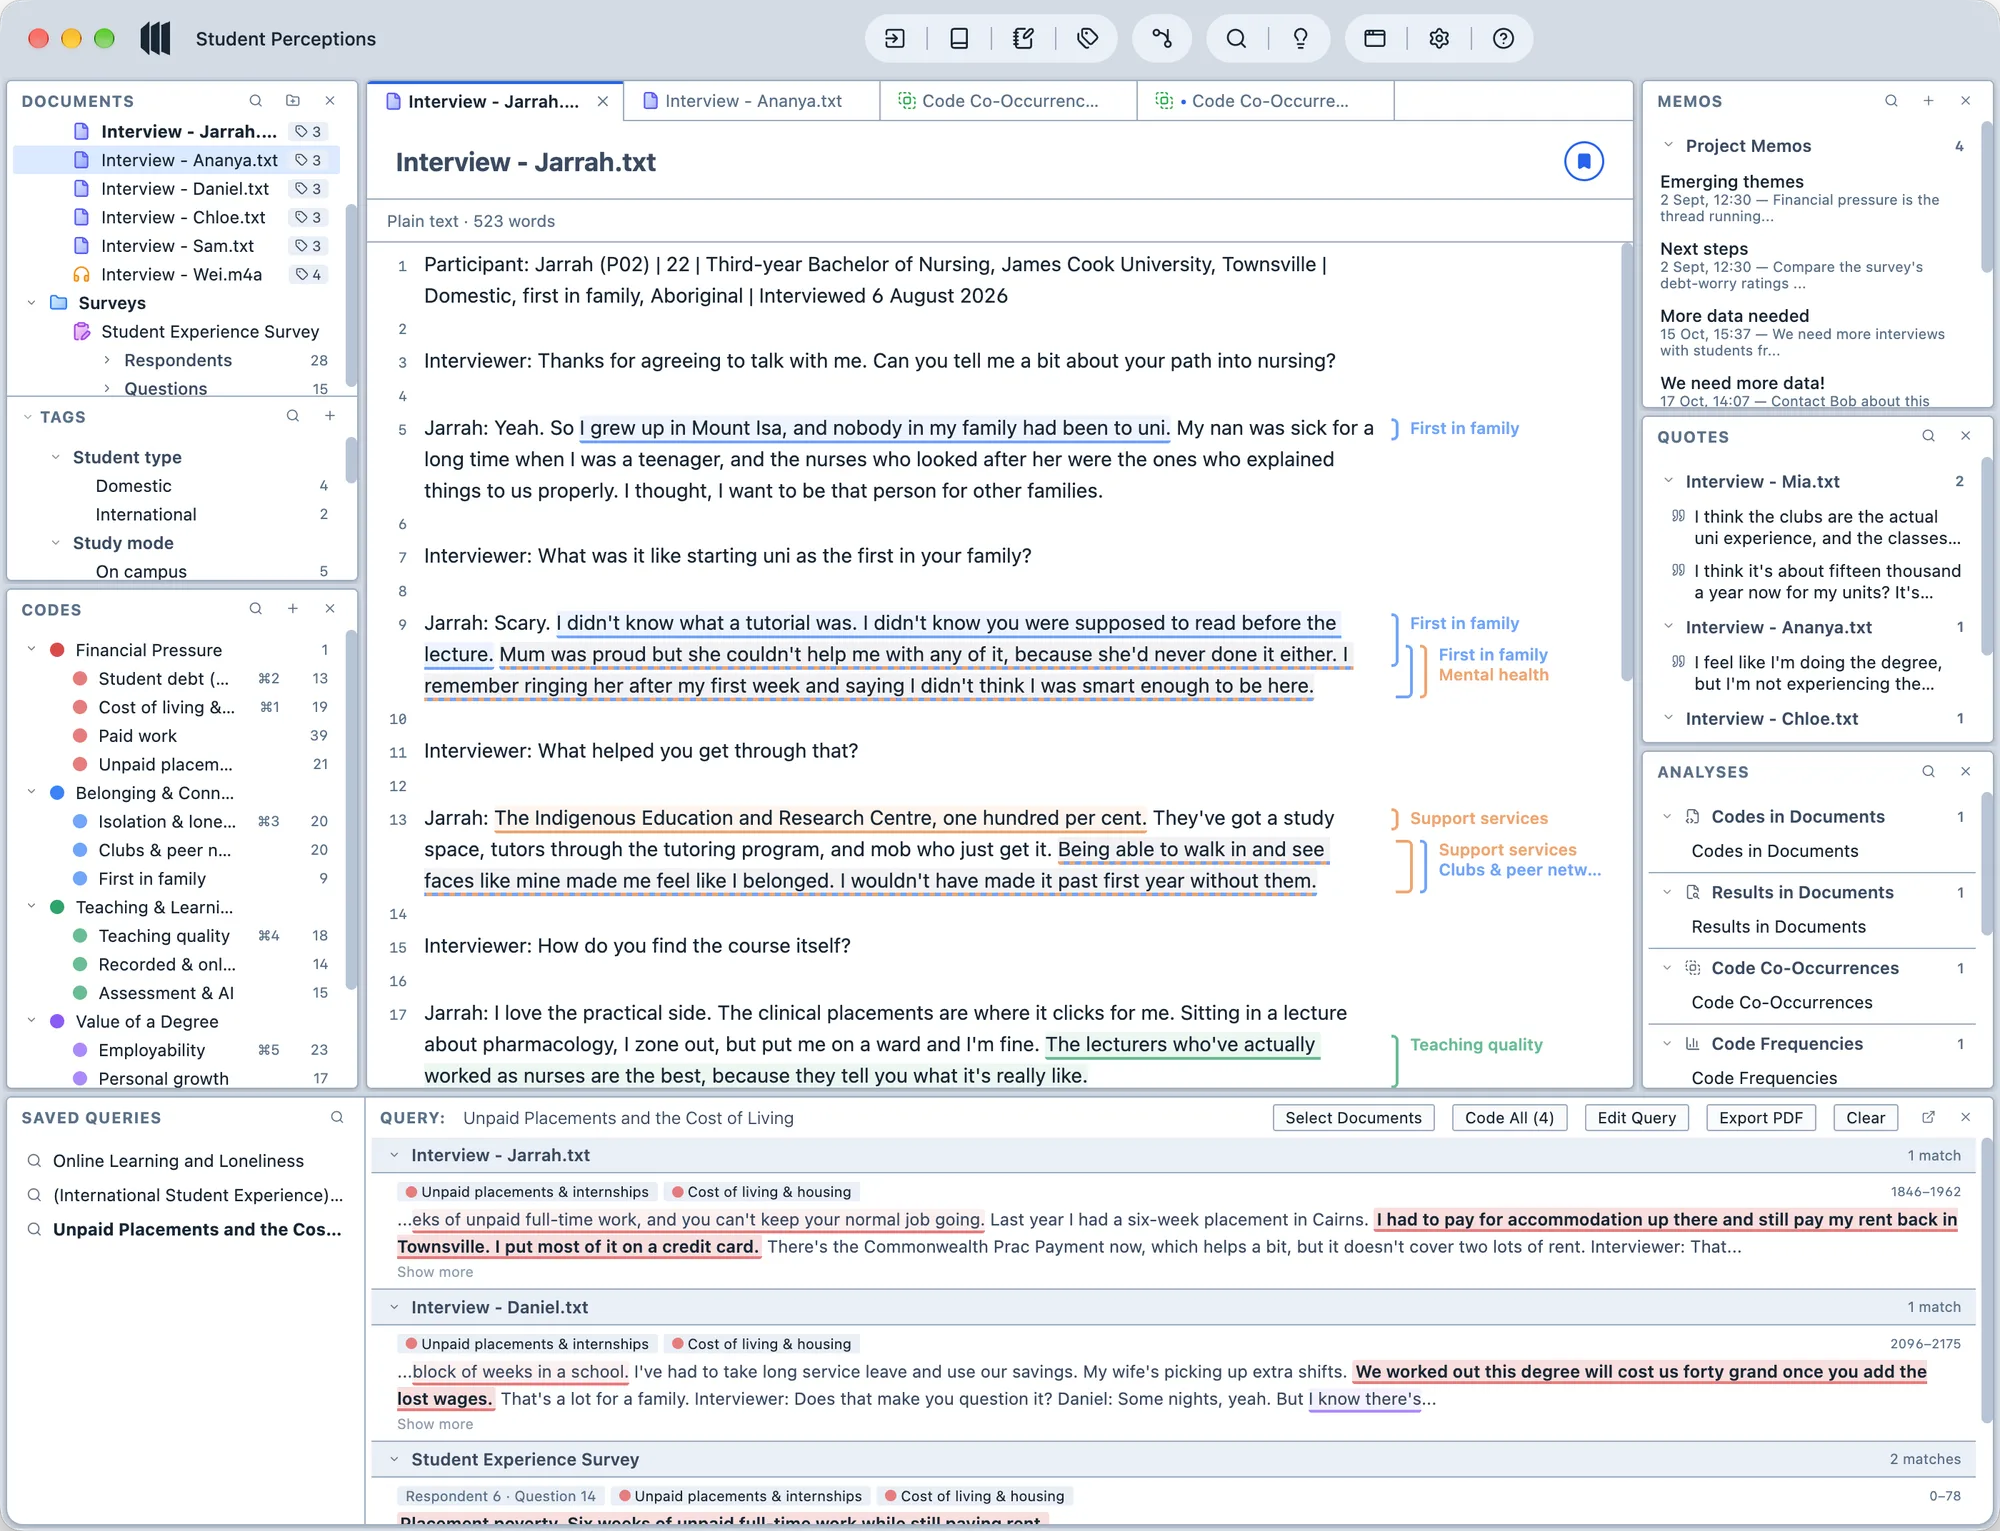
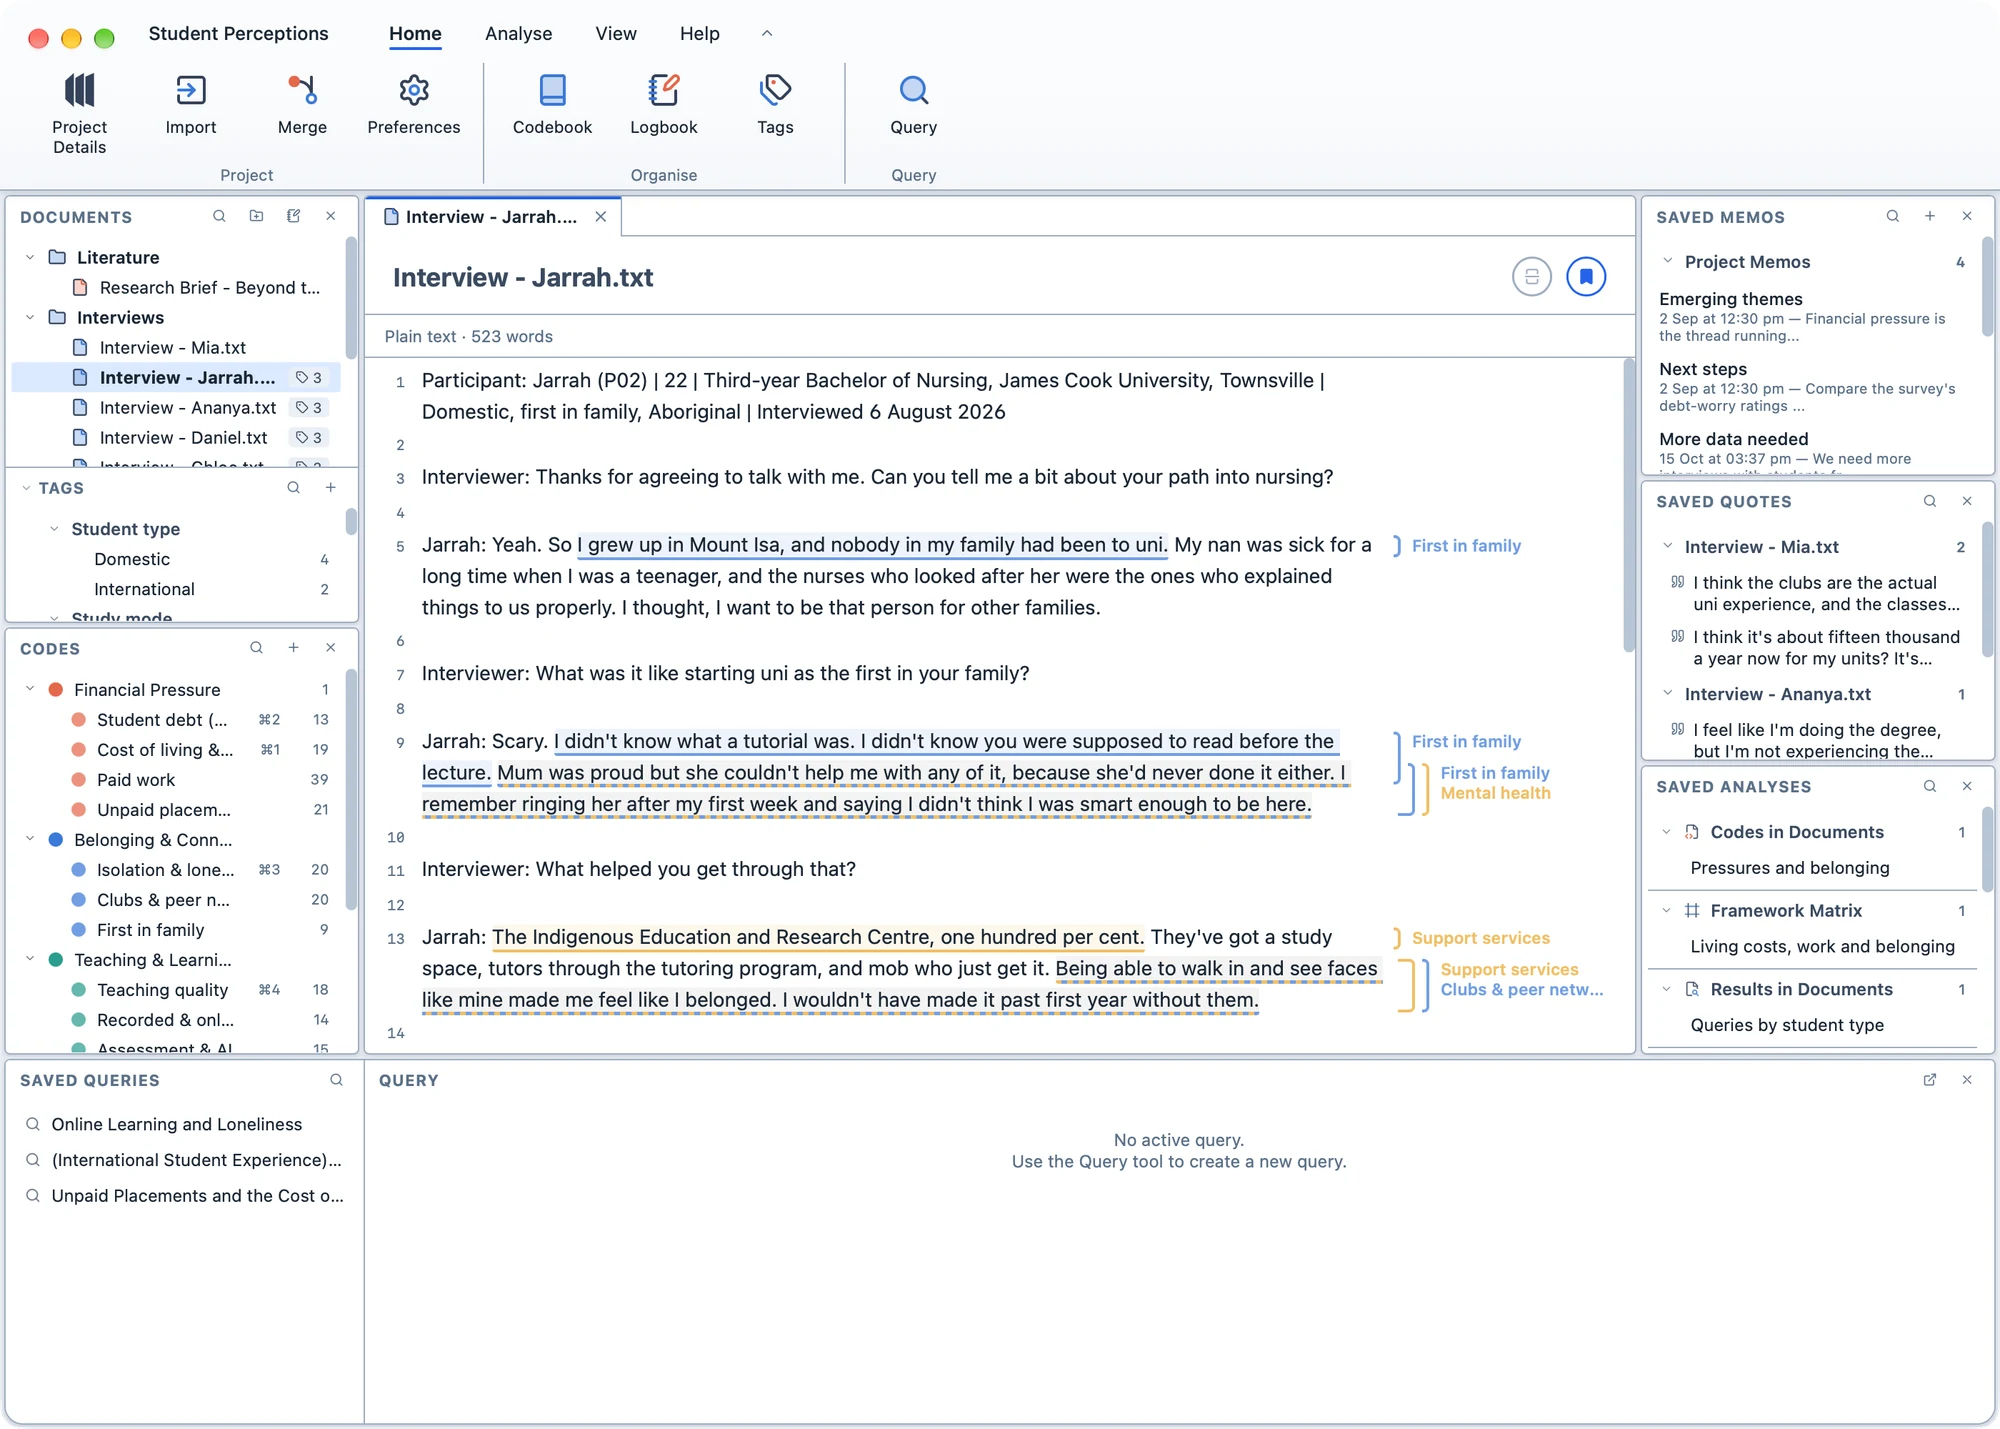
Update the README's screenshots from the manual
The old ones showed the toolbar from before the ribbon. The query section
now shows query results, as the manual has no current shot of a populated
query builder.

Changed region(s): [[0.0, 0.0, 1.0, 1.0], [0.713, 0.2771, 0.744, 0.3079], [0.0, 0.9853, 0.031, 1.0]]

diff --git a/README.md b/README.md
@@ -18,7 +18,7 @@
 Magnolia is free and open-source qualitative data analysis software released under the European Union Public Licence (EUPL).
 
 <p align="center">
-  <img src="screenshot-interface.webp" alt="Magnolia" width="49%">
+  <img src="screenshot-interface.webp" alt="The Magnolia interface, with a coded interview open" width="49%">
   <img src="screenshot-codedpdf.webp" alt="A coded PDF in Magnolia" width="49%">
 </p>
 
@@ -41,7 +41,7 @@ This ensures that Magnolia remains free for everyone, and disincentivises compan
 ## Powerful coding, powerful queries
 
 <p align="center">
-  <img src="screenshot-querybuilder.webp" alt="Magnolia" width="750">
+  <img src="screenshot-queryresults.webp" alt="Query results in Magnolia, listing the matching passages in each document" width="100%">
 </p>
 
 Magnolia's intuitive, graphical query builder lets you build powerful queries to explore your data.
@@ -53,7 +53,7 @@ You can selectively apply queries to specific documents, types of documents, doc
 ## A rich suite of analysis tools
 
 <p align="center">
-  <img src="screenshot-codecooccurrences.webp" alt="Magnolia" width="750">
+  <img src="screenshot-codecooccurrences.webp" alt="A code co-occurrence grid in Magnolia" width="750">
 </p>
 
 Magnolia's rich suite of analytical tools allow you to interrogate your data. You can selectively apply these tools to specific documents, types of documents, documents in specific folders, and/or documents with specific tags.  
@@ -87,7 +87,7 @@ Magnolia lets you transcribe audio and video. Naturally, you can do this with a 
 Magnolia does not include AI transcription.
 
 <p align="center">
-  <img src="screenshot-transcript.webp" alt="Magnolia" width="750">
+  <img src="screenshot-transcript.webp" alt="An audio transcript being coded in Magnolia" width="750">
 </p>
 
 ## Intuitive video coding
@@ -99,7 +99,7 @@ This means that when you code a transcript, your codes also appear in the video 
 ## Support for survey data
 
 <p align="center">
-  <img src="screenshot-surveys.webp" alt="Magnolia" width="750">
+  <img src="screenshot-surveys.webp" alt="The survey summary page in Magnolia" width="750">
 </p>
 
 Other QDA software breaks your survey responses into individual documents. Magnolia doesn't!
